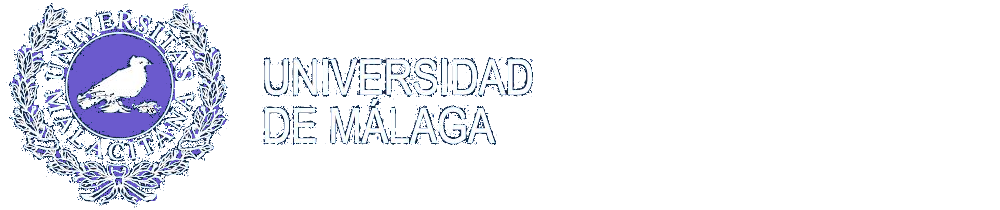
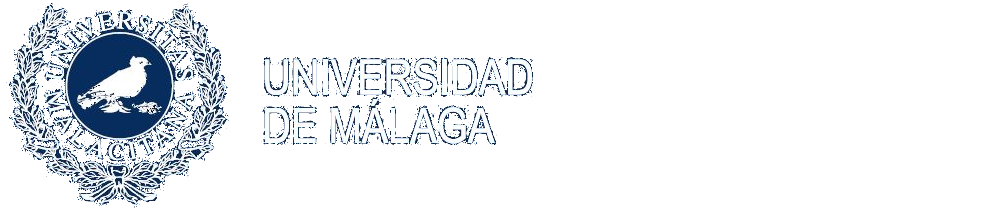
Interfaz más institucional

diff --git a/galeriador/templates/home.html b/galeriador/templates/home.html
@@ -16,9 +16,9 @@
 
   </head>
   <body>
-    <h1 style="text-align: center; padding: 10px; background-color: slateblue; color: white; margin-bottom: 0;">¡Galeriador UMA!</h1>
+    <h1 style="text-align: center; padding: 10px; background-color: #00346b; color: white; margin-bottom: 0;">¡Galeriador UMA!</h1>
     <div style="height: 3px;"></div>
-    <p style="height: 5px; background-color: slateblue;"></p>
+    <p style="height: 5px; background-color: #00346b;"></p>
     <div class="row">
         <div class="col-xs-12 col-md-8"></div>
         <div class="col-xs-6 col-md-4"></div>
@@ -26,7 +26,7 @@
       <div class="row">
         <div class="col-xs-6 col-md-4"></div>
         <div class="col-xs-6 col-md-4" style="text-align: center; 
-                    border: slateblue solid 5px; border-radius: 10px; "><h4 style="padding-top: 5px;">Deja tus imágenes aquí</h4>
+                    border: #00346b solid 5px; border-radius: 10px; "><h4 style="padding-top: 5px;">Deja tus imágenes aquí</h4>
                     <br>
                     <form action="/end/" method="POST" enctype="multipart/form-data">
                     {% csrf_token %}
@@ -43,7 +43,7 @@
       <div class="row" id="formulario" style="margin-top: 10px;">
         <div class="col-xs-6 col-md-2"></div>
         <div class="col-xs-6 col-md-8" style="text-align: center;
-                    border: slateblue solid 5px; border-radius: 10px;">
+                    border: #00346b solid 5px; border-radius: 10px;">
                       <h4 style="padding-top: 5px;">Interfaz de la galería</h4><br>
                         <div class="row" id="selector">
                         <div class="col-xs-6 col-md-6">
@@ -66,7 +66,7 @@
       </div>
 
       <br>
-      <footer style="width: 100%; background-color: slateblue">
+      <footer style="width: 100%; background-color: #00346b">
           <div class="row">
               <div class="col-sm-12" style="height: 3px;"></div>
           </div>

diff --git a/galeriador/templates/endvoid.html b/galeriador/templates/endvoid.html
@@ -12,13 +12,13 @@
     </style>
   </head>
   <body>
-    <h1 style="text-align: center; padding: 10px; background-color: slateblue; color: white; margin-bottom: 0;">¡Galeriador UMA!</h1>
+    <h1 style="text-align: center; padding: 10px; background-color: #00346b; color: white; margin-bottom: 0;">¡Galeriador UMA!</h1>
     <div style="height: 3px;"></div>
-    <p style="height: 5px; background-color: slateblue;"></p>
+    <p style="height: 5px; background-color: #00346b;"></p>
       <div class="row" style="margin-top: 10px;">
         <div class="col-xs-6 col-md-2"></div>
         <div class="col-xs-6 col-md-8" style="text-align: center;
-                    border: slateblue solid 5px; border-radius: 10px;">
+                    border: #00346b solid 5px; border-radius: 10px;">
                     <h4 style="padding-top: 5px;">{{path}}</h4>
                     <button class="copy-button"><a href="http://localhost:8000/" style="text-decoration:none; color: black">← Volver</a></button>
                     <p></p>
@@ -27,7 +27,7 @@
       </div>
 
       <br>
-      <footer style="width: 100%; background-color: slateblue">
+      <footer style="width: 100%; background-color: #00346b">
           <div class="row">
               <div class="col-sm-12" style="height: 3px;"></div>
           </div>

diff --git a/galeriador/templates/end.html b/galeriador/templates/end.html
@@ -12,13 +12,13 @@
     </style>
   </head>
   <body>
-    <h1 style="text-align: center; padding: 10px; background-color: slateblue; color: white; margin-bottom: 0;">¡Galeriador UMA!</h1>
+    <h1 style="text-align: center; padding: 10px; background-color: #00346b; color: white; margin-bottom: 0;">¡Galeriador UMA!</h1>
     <div style="height: 3px;"></div>
-    <p style="height: 5px; background-color: slateblue;"></p>
+    <p style="height: 5px; background-color: #00346b;"></p>
       <div class="row" style="margin-top: 10px;">
         <div class="col-xs-6 col-md-2"></div>
         <div class="col-xs-6 col-md-8" style="text-align: center;
-                    border: slateblue solid 5px; border-radius: 10px;">
+                    border: #00346b solid 5px; border-radius: 10px;">
                     <h4 style="padding-top: 5px;">Enlace a su galería:</h4>
                     <p id="enlace">{{path}}</p>
                     <button class="copy-button" onclick="copiarAlPortapapeles('enlace')">Copiar enlace</button>
@@ -35,7 +35,7 @@
       </div>
 
       <br>
-      <footer style="width: 100%; background-color: slateblue">
+      <footer style="width: 100%; background-color: #00346b">
           <div class="row">
               <div class="col-sm-12" style="height: 3px;"></div>
           </div>

diff --git a/galeriador/static/css/faceapp.css b/galeriador/static/css/faceapp.css
@@ -30,7 +30,7 @@ h4{
 
 .send-button{
     color: #000;
-    border: solid slateblue 3px;
+    border: solid #00346b 3px;
     border-radius: 5px;
     font-size:14px; 
     font-weight: bolder;
@@ -44,7 +44,7 @@ h4{
 
 .copy-button{
     color: #000;
-    border: solid slateblue 3px;
+    border: solid #00346b 3px;
     border-radius: 5px;
     font-size:14px; 
     font-weight: bolder;
@@ -67,7 +67,7 @@ h4{
   }
   #iframe::-webkit-scrollbar-thumb, #enlace::-webkit-scrollbar-thumb {
     border-radius: 10px;
-    background-color: slateblue;
+    background-color: #00346b;
   }
   #iframe::-webkit-scrollbar-track-piece, #enlace::-webkit-scrollbar-track-piece{
     background-color: rgba(229,229,229,0.5);

diff --git a/galeriador/static/css/file-input.css b/galeriador/static/css/file-input.css
@@ -39,7 +39,7 @@
 
 .inputfile-1 + label {
     color: #000;
-    border: solid slateblue 3px;
+    border: solid #00346b 3px;
     border-radius: 5px;
 }
 
